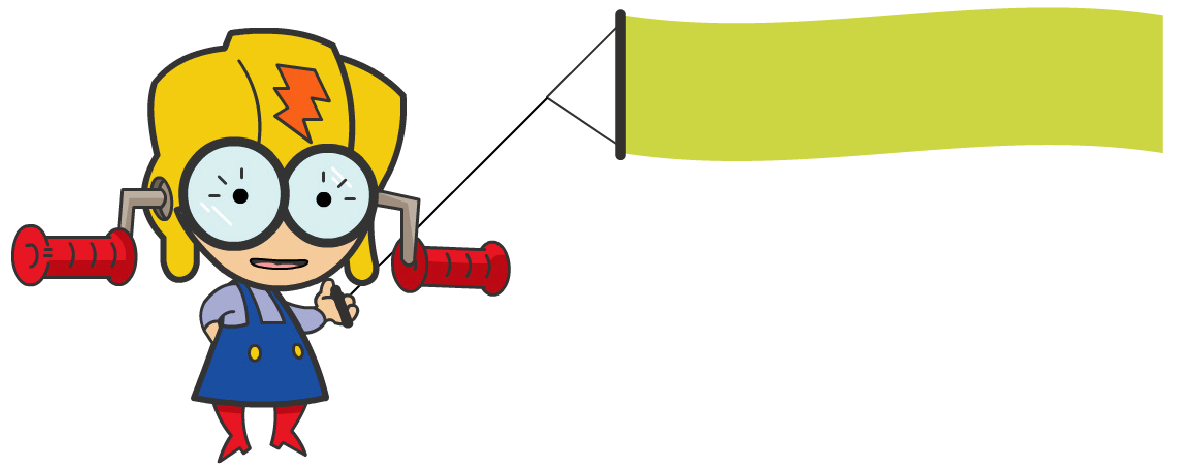
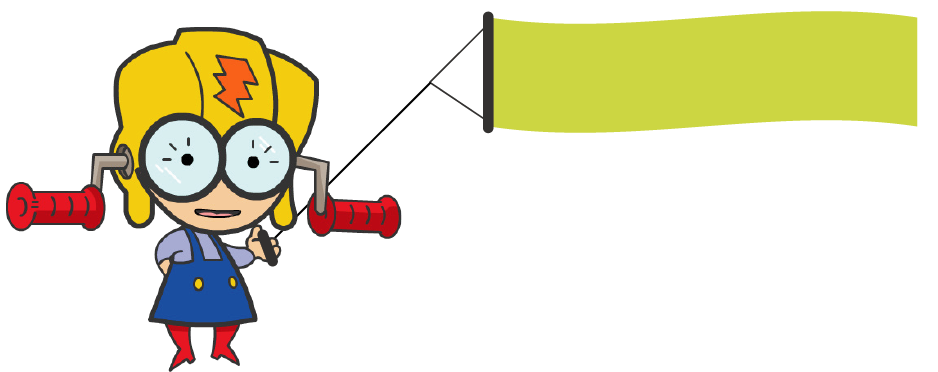
more styling

Changed region(s): [[0.0, 0.0591, 0.4328, 1.0], [0.4019, 0.0, 0.9893, 0.3548]]

diff --git a/src/main/resources/static/css/headerFooter.css b/src/main/resources/static/css/headerFooter.css
@@ -5,23 +5,22 @@
     background-repeat: no-repeat;
     background-size: cover;
     border-bottom: .5rem solid #cbd543;
+    background-position: center;
     height: 200px;
     position: relative;
     width: 100vw;
+    display: flex;
+    justify-content: space-between;
 }
 
-/*.headerContents {*/
-/*    bottom: 0;*/
-/*    display: flex;*/
-/*    position: absolute;*/
-/*    left: 25vw;*/
-/*}*/
+.logoContainer{
+    align-items: flex-end;
+    display: flex;
+    transform: translateX(15%);
+}
 
 .logo{
-    bottom: 0;
-    left: 2vw;
     margin-bottom: .75rem;
-    position: absolute;
 
 }
 
@@ -29,21 +28,16 @@
     width: 275px;
 }
 
-.mainNav{
-    bottom: 0;
+.mainNavContainer{
     display: flex;
-    left: 23vw;
-    list-style-type: none;
-    position: absolute;
+    align-items: flex-end;
 }
 
-.mainNav:after {
-    display: block;
-    content: "";
-    /*width: 3px;*/
-    /*height: 5px;*/
-    background-image: url('/assets/weatherGirlWithBanner.png') no-repeat;
+.mainNav{
+    display: flex;
+    list-style-type: none;
 }
+
 
 .mainNavItem{
     background-color: #cbd543;
@@ -51,6 +45,7 @@
     border-top-left-radius: .75rem;
     border-top-right-radius: .75rem;
     margin-left: .75rem;
+    height: 50px;
 }
 
 .mainNavItem a{
@@ -58,10 +53,14 @@
     text-decoration: none;
 }
 
+.weatherGirlContainer{
+    align-items: flex-end;
+    display: flex;
+    transform: translate(-18%, 7%);
+}
+
 .weatherGirl{
-    bottom: -15px;
-    position: absolute;
-    right: -1vw;
+    /*transform: translate(-22%, 12%);*/
 }
 
 .weatherGirlImg{

diff --git a/src/main/resources/templates/welcome.html b/src/main/resources/templates/welcome.html
@@ -14,22 +14,28 @@
 
 <section id="header">
 
+    <div class="logoContainer">
     <div class="logo">
         <img src="/assets/ed_logo.png" alt="" class="logoImg">
     </div>
+    </div>
 
+
+    <div class="mainNavContainer">
     <ul class="mainNav">
         <li class="mainNavItem"><a href="#">link 1</a></li>
         <li class="mainNavItem"><a href="#">link 2</a></li>
         <li class="mainNavItem"><a href="#">link 3</a></li>
         <li class="mainNavItem"><a href="#">link 4</a></li>
+        <li class="mainNavItem"><a href="#">link 5</a></li>
     </ul>
+    </div>
 
-<!--    <div class="weatherGirl">-->
-<!--        <img src="/assets/weatherGirlWithBanner.png" alt="" class="weatherGirlImg">-->
-<!--    </div>-->
-
-
+    <div class="weatherGirlContainer">
+    <div class="weatherGirl">
+        <img src="/assets/weatherGirlWithBanner.png" alt="" class="weatherGirlImg">
+    </div>
+    </div>
 </section>
 
 <section id="aboutUs">

diff --git a/src/main/resources/static/css/welcome.css b/src/main/resources/static/css/welcome.css
@@ -38,6 +38,7 @@ h3{
 #aboutUs{
     align-items: center;
     background-image: url("/assets/welcomeBackground.jpg");
+    background-position: center;
     background-repeat: no-repeat;
     background-size: cover;
     display: flex;
@@ -131,7 +132,8 @@ h3{
 
 #signUp{
     align-items: center;
-    background-image: url("/assets/welcomeBackground.jpg");
+    background-image: url("/assets/signUpBackground.jpg");
+    background-position: center;
     background-repeat: no-repeat;
     background-size: cover;
     display: flex;
@@ -192,7 +194,8 @@ h3{
 /*BEGIN DONATE SECTION*/
 
 #donate{
-    background-image: url("/assets/welcomeBackground.jpg");
+    background-image: url("/assets/donateBackground.jpg");
+    background-position: center;
     background-repeat: no-repeat;
     background-size: cover;
     display: flex;
